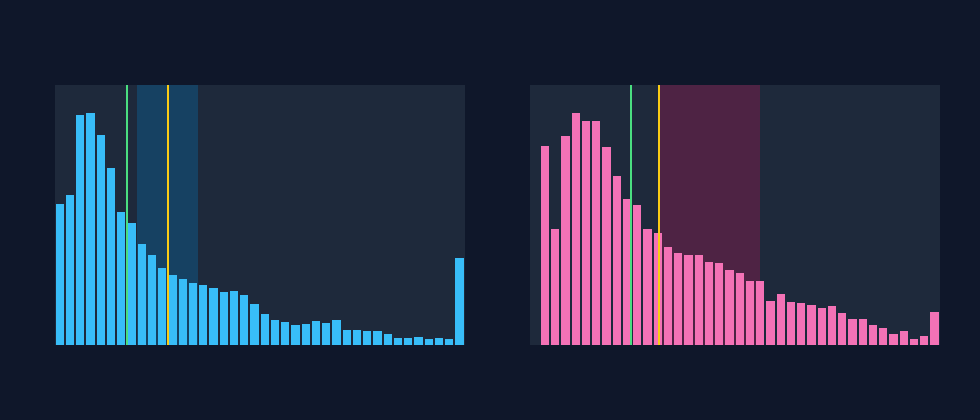
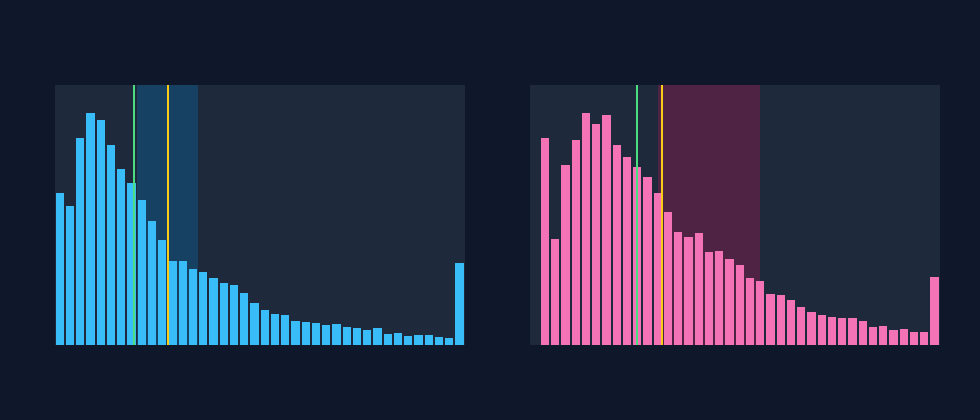
Calibrate gravity model and distribute realistic neighborhood workplaces

diff --git a/pipeline/70_gravity_pops.py b/pipeline/70_gravity_pops.py
@@ -408,7 +408,7 @@ def main() -> int:
     )
 
     if not (target_km[0] <= mean_km_c <= target_km[1] and target_min[0] <= mean_min_c <= target_min[1]):
-        for cand_beta, cand_blend in [(0.12, 0.75), (0.14, 0.72), (0.15, 0.68), (0.16, 0.65)]:
+        for cand_beta, cand_blend in [(0.033, 0.80), (0.035, 0.80), (0.030, 0.85), (0.040, 0.85)]:
             T_try, mk, mm = solve_gravity_for_beta(cand_beta, cand_blend)
             calibration_log.append({"beta": cand_beta, "blend": cand_blend, "mean_km": round(mk, 2), "mean_min": round(mm, 2)})
             if target_km[0] <= mk <= target_km[1] and target_min[0] <= mm <= target_min[1]:
